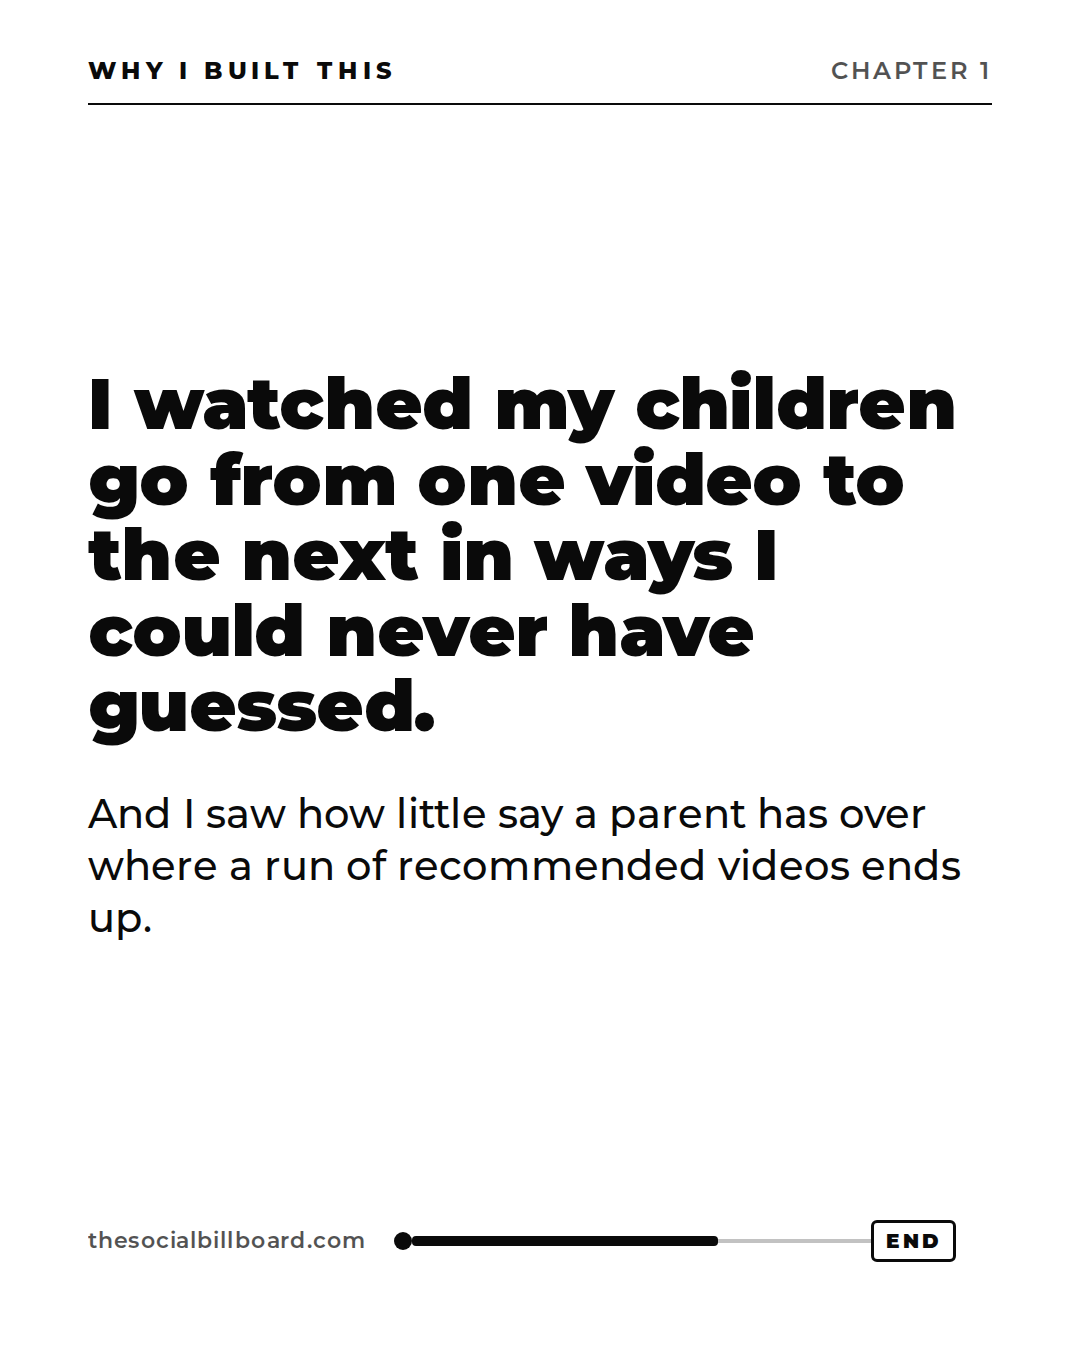
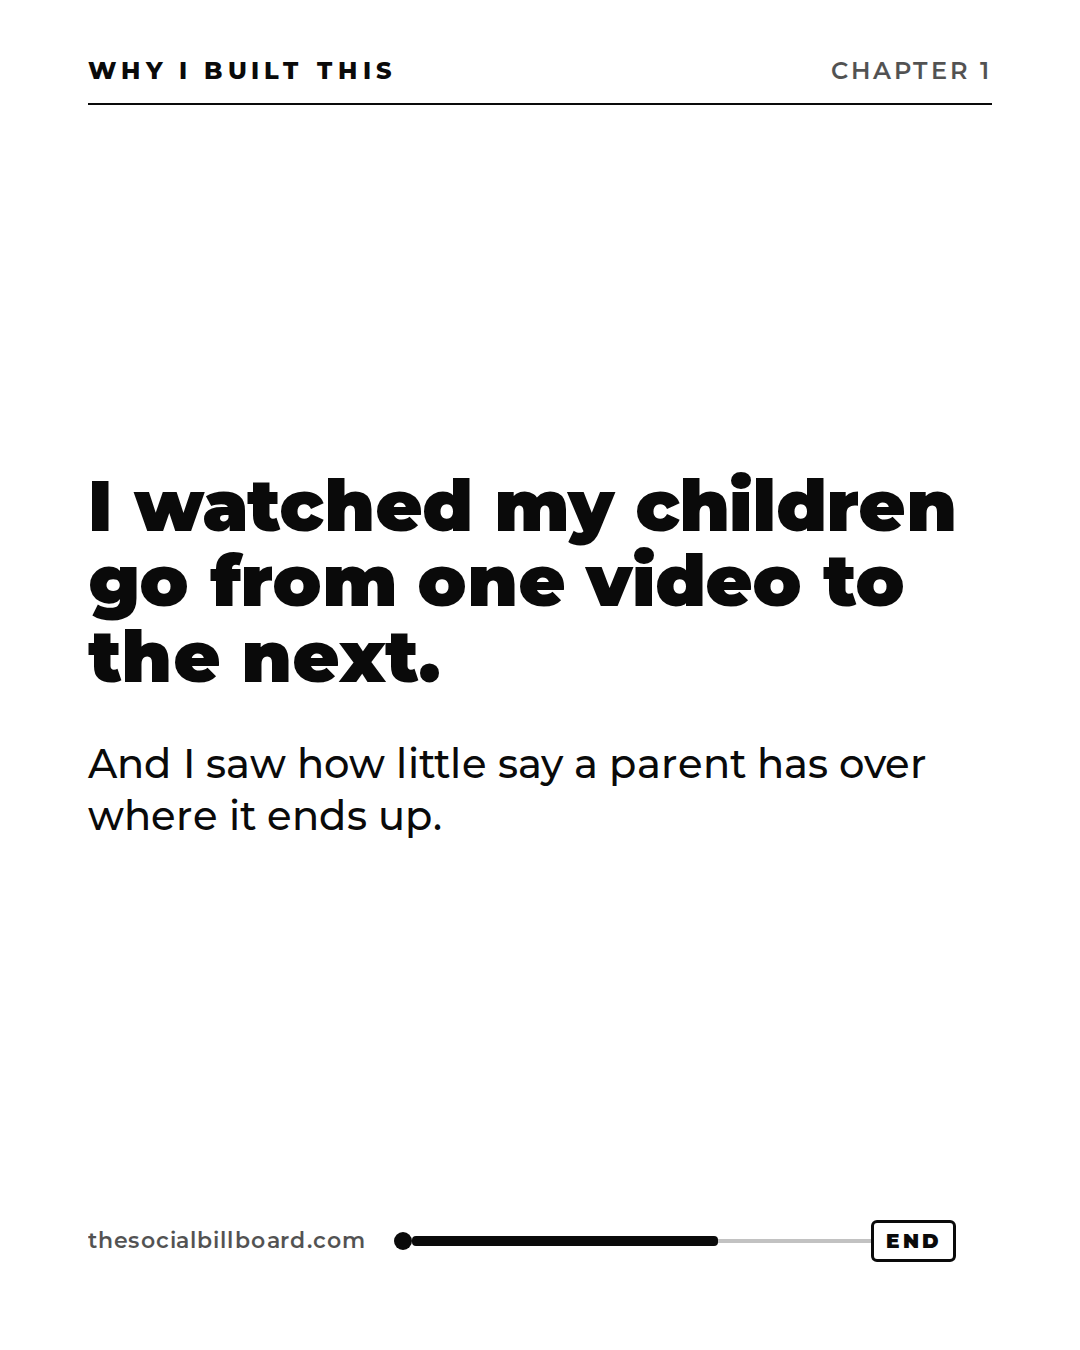
SB carousels: word budget check, sb-carousel skill, trimmed slides
The video Justin shared (Claude design for carousels) was weighed: adopted a
max words per slide rule (now a check) and saving the carousel method as a
skill; references stay layout only. Slides over budget trimmed and re-rendered.

Claude-Session: https://claude.ai/code/session_01V25U8gXKTwGPFtnMkF6qQN

Changed region(s): [[0.0611, 0.2489, 0.8861, 0.7156]]

diff --git a/.claude/skills/sb-carousel/SKILL.md b/.claude/skills/sb-carousel/SKILL.md
@@ -1,0 +1,85 @@
+---
+name: sb-carousel
+description: Build a Social Billboard carousel, single image, Reel cover or Facebook cover for Instagram and Facebook in the house series system, the same way every time. Use whenever Justin asks for a Social Billboard (SB, TSB, playlist) carousel, post image, weekly playlist card, "make the slides", "design the post", "turn this into a carousel", a Reel cover or a Facebook cover. Writes the deck JSON, checks the word budget and the claim gates, renders the PNGs with alt text, and copies the launch set where Justin can open it. Never Guided Childhood, which has its own cream and butter system and the family-social skill.
+---
+
+# SB carousel
+
+One system for every Social Billboard post, so the account reads as a shelf of
+series rather than a new design each time. The renderer and every token live in
+`tools/tsb-playlist-card/`; this skill is the method around it.
+
+## Before writing a slide
+
+Answer these five in one line each. A carousel that cannot answer them is not
+ready to design.
+
+1. **Who it is for.** Default: a UK parent of a child aged 3 to 14 who already
+   lets them watch YouTube and is tired of what comes after the video ends.
+2. **Why it exists.** The one idea, in a sentence.
+3. **The call to action.** Product posts end on GET A FREE PLAYLIST. Founder and
+   question posts end on a question, with no link.
+4. **Slide count.** Six to ten for a carousel (engagement dips after slide 3 and
+   peaks near 10, Socialinsider). One for a single image.
+5. **The series.** One of: WHY I BUILT THIS, THE NEXT VIDEO, THIS WEEK'S
+   PLAYLIST, WHY THIS MADE THE PLAYLIST, WHAT DID WE COME HERE TO FIND?, ONE
+   THING WE CHECKED, PARENT REQUEST BOARD, I TRIED IT AS A DAD, HOW IT WORKS,
+   GET A FREE PLAYLIST. Do not invent a new series for one post.
+
+## The rules
+
+- **Word budget.** Slide 1 carries 12 words at most; every other slide 25.
+  Chips do not count. `node tools/tsb-playlist-card/check-words.mjs` enforces it.
+- **Slide 1** holds three things: the masthead, a headline, one proof element
+  (Justin's face, the age chip, or a real screen).
+- **Real before generated.** Real Justin, real product, real playlist, real
+  screenshots first. Generated art only as a background with no text (the night
+  skies), made on Higgsfield. Never a child's face, a stock person, a synthetic
+  parent, a YouTube thumbnail, or a fake screen.
+- **Claims come from the control document.** `plans/sb-parent-launch-control.md`
+  section 1 lists what can and cannot be said. "When it ends, it ends",
+  "nothing autoplays", the full checking framework, "safe" and "vetted by
+  experts" stay out until their gates clear.
+- **Founder lines** come only from `content/brand-story/founder-context.md`,
+  never invented, never repeated on the family account in the same fortnight.
+- **Research lines** go through the citation-verifier agent before they render.
+  Name the population (age, country, sample) on the slide.
+- **No dashes anywhere.** "9 to 11", never "9–11". Run `npm run ai-tells` on
+  any new copy file.
+- **Pink means age band**, on every asset. Yellow means Social Billboard and
+  action. One yellow element per slide.
+- **Separation.** Guided Childhood appears at most as one small line in a
+  founder post. Creators appear only once parent demand is real.
+
+## Making it
+
+1. Copy the closest deck in `tools/tsb-playlist-card/decks/` (`series-*.json`
+   for carousels and single images, `reels-01-covers.json`,
+   `facebook-cover-01.json`). The fields are documented in the README there.
+2. Write the slides. Captions are written at the same time, as short paragraphs,
+   ending with one send line or one question.
+3. `node tools/tsb-playlist-card/check-words.mjs decks/<deck>.json`
+4. `node tools/tsb-playlist-card/render.mjs decks/<deck>.json`. Playwright needs
+   a `node_modules/playwright` link to `/opt/node-tools/node_modules/playwright`
+   in a cloud session.
+5. Look at slide 1 and the last slide before anything else. Fix, render once
+   more, stop.
+6. Copy the PNGs into the current pack's `renders/` folder (out/ is gitignored),
+   so Justin can open them from GitHub, and add the day to the posting page if
+   one exists for the week.
+
+## Sizes
+
+| Asset | Size | Note |
+| --- | --- | --- |
+| Carousel slide, single image | 1080 x 1350 | Words inside the central 3:4 band |
+| Reel cover | 1080 x 1920 | Inside the 3:4 grid crop, nothing in the bottom 380px |
+| Facebook cover | 1640 x 924 | Words inside the middle 1640 x 624 band, clear of the profile picture |
+| Weekly card, Facebook and email | 1200 x 630 | `space-9-to-11.json` |
+
+## References
+
+When Justin shares reference carousels (Pinterest, other accounts), take the
+layout idea only: slide pacing, where the image sits, how big the words are.
+Never copy the artwork, the wording or the colours. Weigh any outside advice
+through the feedback-filter skill first.

diff --git a/tools/tsb-playlist-card/README.md b/tools/tsb-playlist-card/README.md
@@ -56,6 +56,8 @@ set of series rather than a new design each post. A deck with
   weekly playlist), `photo` or `photoFull` (a labelled slot for a real photo),
   `sky` (a background from `backgrounds/`), `note`, `pill`.
 
+Word budget: `node tools/tsb-playlist-card/check-words.mjs` (12 words on slide 1, 25 after). The method is the `sb-carousel` skill.
+
 `"kind": "reels"` renders 1080 x 1920 Reel covers with every word inside the
 3:4 grid crop and nothing in the bottom 380px. Set `"guides": true` to draw
 the safe zones (`decks/reels-00-cover-spec.json`).
